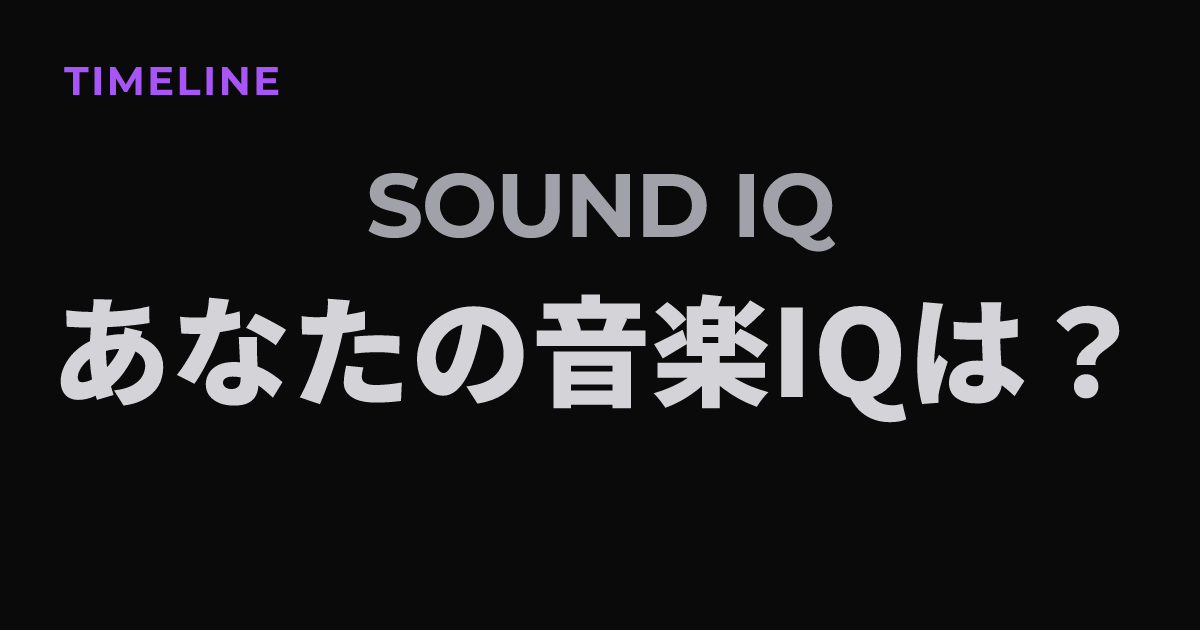
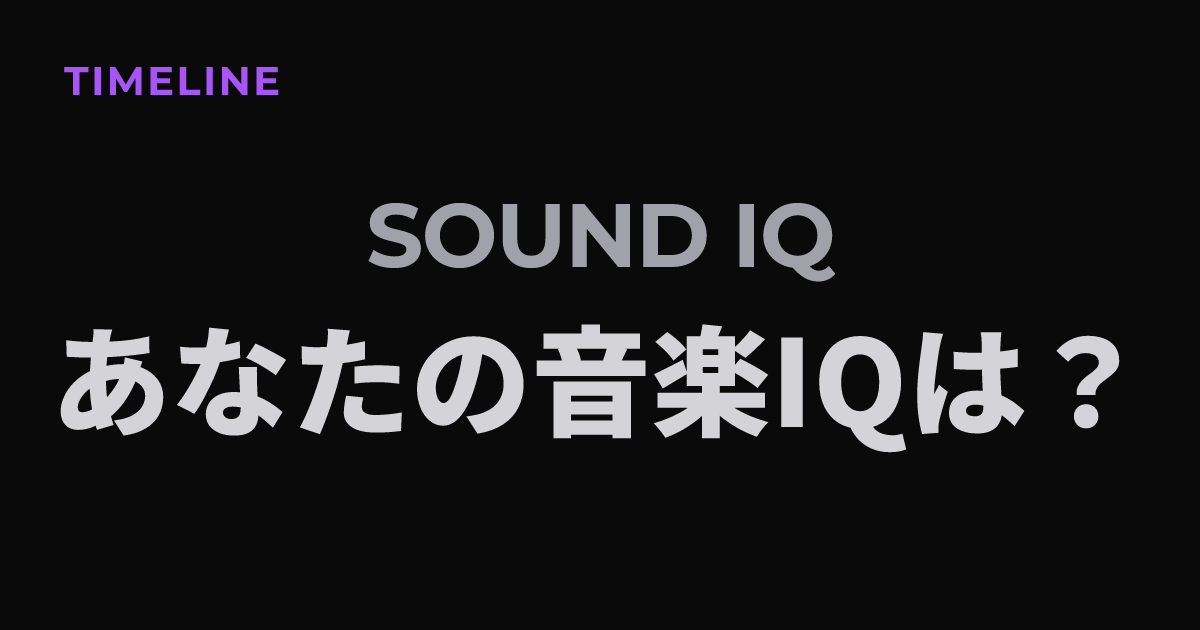
OG画像を下にずらす + ボタンラベル日本語化(Xでシェア/コピー/もう一度プレイ)

Changed region(s): [[0.0308, 0.4524, 0.9558, 0.7238], [0.3083, 0.2714, 0.7092, 0.4524]]

diff --git a/app/api/og/route.tsx b/app/api/og/route.tsx
@@ -40,8 +40,8 @@ export async function GET(req: NextRequest) {
       (
         <div style={{ display: 'flex', position: 'relative', width: '100%', height: '100%', backgroundColor: '#0A0A0A', fontFamily: 'Montserrat' }}>
           <div style={{ display: 'flex', position: 'absolute', top: '56px', left: '64px', fontSize: '40px', fontWeight: 900, color: accentColor, letterSpacing: '0.06em' }}>{modeLabel}</div>
-          <div style={{ display: 'flex', position: 'absolute', top: '160px', width: '100%', justifyContent: 'center', fontSize: '90px', fontWeight: 900, color: '#A1A1AA', letterSpacing: '-0.02em', lineHeight: 1 }}>SOUND IQ</div>
-          <div style={{ display: 'flex', position: 'absolute', top: '285px', width: '100%', justifyContent: 'center', fontSize: '120px', fontWeight: 900, color: '#D4D4D8', fontFamily: 'NotoSansJP', lineHeight: 1 }}>あなたの音楽IQは？</div>
+          <div style={{ display: 'flex', position: 'absolute', top: '190px', width: '100%', justifyContent: 'center', fontSize: '90px', fontWeight: 900, color: '#A1A1AA', letterSpacing: '-0.02em', lineHeight: 1 }}>SOUND IQ</div>
+          <div style={{ display: 'flex', position: 'absolute', top: '315px', width: '100%', justifyContent: 'center', fontSize: '120px', fontWeight: 900, color: '#D4D4D8', fontFamily: 'NotoSansJP', lineHeight: 1 }}>あなたの音楽IQは？</div>
         </div>
       ),
       {

diff --git a/lib/i18n.ts b/lib/i18n.ts
@@ -113,7 +113,7 @@ const translations = {
     nameInput: 'Enter your name',
     register: 'Register',
     registered: 'Registered!',
-    playAgain: 'Play Again',
+    playAgain: 'もう一度プレイ',
     backToTop: 'Home',
     rankingTitle: 'Ranking TOP 10',
     loading: 'Loading...',
@@ -130,9 +130,9 @@ const translations = {
     challengeTitle: 'Beat my score!',
     challengeScore: 'Their score',
     yourScore: 'Your score',
-    share: 'Copy',
-    shareOnX: 'Share on X',
-    copied: 'Copied!',
+    share: 'コピー',
+    shareOnX: 'Xでシェア',
+    copied: 'コピーしました',
     newBest: 'New Best!',
     bestLabel: 'Best',
     top: 'TOP',
@@ -173,7 +173,7 @@ const translations = {
     tl_registered: 'Registered!',
     tl_bestScore: 'Best Score',
     tl_newRecord: 'NEW RECORD!',
-    tl_playAgain: 'Play Again',
+    tl_playAgain: 'もう一度プレイ',
     tl_ranking: 'Ranking',
     tl_backToTop: 'Home',
     tl_scoreUpdated: 'Score Updated!',
